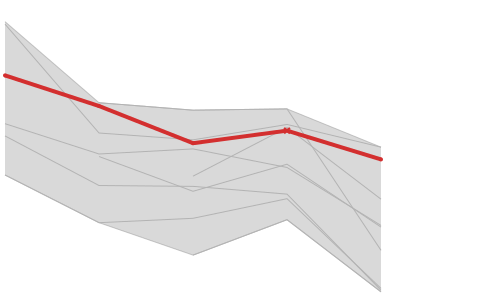
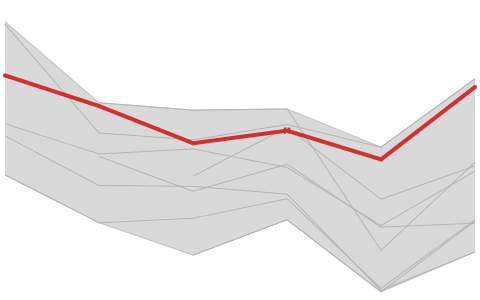
Update race statistics

Changed region(s): [[0.7812, 0.27, 1.0, 0.99]]

diff --git a/docs/charts/men-sophomore.html b/docs/charts/men-sophomore.html
@@ -10,7 +10,7 @@
 <body>
 <div id="wrap"><canvas id="c" style="width:100%"></canvas></div>
 <script>
-const CHART = {"title": "Men Sophomore", "regattas": ["Kai ʻEhitu", "Keauhou", "Kai ʻŌpua", "Kailana", "Keaukaha", "Puna"], "dates": ["05-16", "05-23", "06-06", "06-13", "06-20", "06-27"], "fastest": [244.46, null, 229.48, 231.71, 218.39, null], "slowest": [298.83, null, 258.33, 262.85, 249.23, null], "teams": [{"name": "Kawaihae", "line": "#D32F2F", "point": "#FFFFFF", "emphasize": true, "times": [265.88, null, 252.29, 252.21, null, null]}, {"name": "Hoemana", "line": "#8D5524", "point": "#000000", "times": [253.91, null, 245.16, 251.85, 236.9, null]}, {"name": "Kai Opua", "line": "#1565C0", "point": "#FFFFFF", "times": [250.42, null, null, 242.26, 227.05, null]}, {"name": "Kai ʻEhitu", "line": "#D32F2F", "point": "#FFFFFF", "dash": true, "times": [244.46, null, 229.48, 231.71, 225.6, null]}, {"name": "Kamehameha - Hilo", "line": "#CBB994", "point": "#D32F2F", "times": [298.83, null, 258.33, 262.85, 249.23, null]}, {"name": "Keauhou", "line": "#2E7D32", "point": "#FFFFFF", "times": [null, null, null, null, 218.39, null]}, {"name": "Keaukaha", "line": "#4FC3F7", "point": "#D4AF37", "times": [249.49, null, 230.78, 246.11, 226.29, null]}, {"name": "Keōua Hōnaunau", "line": "#FFF176", "point": "#D32F2F", "times": [247.42, null, 240.0, 243.98, 234.16, null]}, {"name": "Puna", "line": "#FBC02D", "point": "#2E7D32", "times": [null, null, 236.1, 235.94, 230.17, null]}], "dqs": [null, null, null, null, null, null]};
+const CHART = {"title": "Men Sophomore", "regattas": ["Kai ʻEhitu", "Keauhou", "Kai ʻŌpua", "Kailana", "Keaukaha", "Puna"], "dates": ["05-16", "05-23", "06-06", "06-13", "06-20", "06-27"], "fastest": [244.46, null, 229.48, 231.71, 218.39, 226.6], "slowest": [298.83, null, 258.33, 262.85, 249.23, 272.8], "teams": [{"name": "Kawaihae", "line": "#D32F2F", "point": "#FFFFFF", "emphasize": true, "times": [265.88, null, 252.29, 252.21, null, 232.55]}, {"name": "Hoemana", "line": "#8D5524", "point": "#000000", "times": [253.91, null, 245.16, 251.85, 236.9, 251.75]}, {"name": "Kai Opua", "line": "#1565C0", "point": "#FFFFFF", "times": [250.42, null, null, 242.26, 227.05, 241.14]}, {"name": "Kai ʻEhitu", "line": "#D32F2F", "point": "#FFFFFF", "dash": true, "times": [244.46, null, 229.48, 231.71, 225.6, 232.16]}, {"name": "Kamehameha - Hilo", "line": "#CBB994", "point": "#D32F2F", "times": [298.83, null, 258.33, 262.85, 249.23, 272.8]}, {"name": "Keauhou", "line": "#2E7D32", "point": "#FFFFFF", "times": [null, null, null, null, 218.39, 226.6]}, {"name": "Keaukaha", "line": "#4FC3F7", "point": "#D4AF37", "times": [249.49, null, 230.78, 246.11, 226.29, 230.55]}, {"name": "Keōua Hōnaunau", "line": "#FFF176", "point": "#D32F2F", "times": [247.42, null, 240.0, 243.98, 234.16, 239.88]}, {"name": "Puna", "line": "#FBC02D", "point": "#2E7D32", "times": [null, null, 236.1, 235.94, 230.17, 244.54]}], "dqs": [null, null, null, null, null, null]};
 const THUMB = new URLSearchParams(location.search).has("thumb");
 function mmss(v){let m=Math.floor(v/60);let s=(v-m*60).toFixed(2).padStart(5,"0");return m+":"+s;}
 window.onload = function () {

diff --git a/docs/charts/summary.html b/docs/charts/summary.html
@@ -11,7 +11,7 @@
 <body>
 <div id="wrap"><canvas id="c" style="width:100%"></canvas></div>
 <script>
-const SUMMARY = {"labels": ["10", "12", "13", "14", "15", "16", "18", "Novice B", "Novice A", "Freshmen", "Sophomore", "Junior", "40", "50", "55", "60", "65", "70", "Open Four", "Open Mixed"], "datasets": [{"label": "Men", "data": [{"x": 0.0, "y": 364.16}, {"x": 1.0, "y": 272.01}, {"x": 2.0, "y": 266.25}, {"x": 3.0, "y": 257.6}, {"x": 4.0, "y": 269.88}, {"x": 5.0, "y": 255.74}, {"x": 6.0, "y": 243.38}, {"x": 7.0, "y": 231.17}, {"x": 8.0, "y": 245.38}, {"x": 9.0, "y": 223.27}, {"x": 10.0, "y": 252.29}, {"x": 11.0, "y": 239.75}, null, {"x": 13.0, "y": 271.53}, {"x": 14.0, "y": 281.94}, {"x": 15.0, "y": 275.11}, {"x": 16.0, "y": 266.24}, null, {"x": 18.0, "y": 259.67}, null], "errorBars": [{"lo": 309.25, "hi": 431.78}, {"lo": 255.19, "hi": 311.72}, {"lo": 227.98, "hi": 283.98}, {"lo": 220.92, "hi": 279.47}, {"lo": 247.67, "hi": 281.22}, {"lo": 242.88, "hi": 277.07}, {"lo": 230.37, "hi": 259.67}, {"lo": 206.05, "hi": 245.2}, {"lo": 240.43, "hi": 258.11}, {"lo": 221.86, "hi": 233.26}, {"lo": 252.21, "hi": 265.88}, {"lo": 231.24, "hi": 248.26}, null, {"lo": 243.04, "hi": 281.67}, {"lo": 263.57, "hi": 290.24}, {"lo": 254.67, "hi": 278.69}, {"lo": 254.87, "hi": 272.4}, null, {"lo": 248.14, "hi": 265.49}, null], "borderColor": "#1565C0", "backgroundColor": "#1565C0"}, {"label": "Women", "data": [{"x": 0.15, "y": 351.29}, {"x": 1.15, "y": 282.08}, {"x": 2.15, "y": 281.48}, {"x": 3.15, "y": 259.75}, {"x": 4.15, "y": 279.84}, {"x": 5.15, "y": 296.26}, {"x": 6.15, "y": 300.32}, {"x": 7.15, "y": 270.02}, {"x": 8.15, "y": 290.5}, {"x": 9.15, "y": 267.16}, {"x": 10.15, "y": 307.0}, null, {"x": 12.15, "y": 270.32}, {"x": 13.15, "y": 308.75}, {"x": 14.15, "y": 291.16}, {"x": 15.15, "y": 333.96}, {"x": 16.15, "y": 320.88}, {"x": 17.15, "y": 309.41}, {"x": 18.15, "y": 342.19}, null], "errorBars": [{"lo": 305.11, "hi": 434.93}, {"lo": 246.33, "hi": 295.39}, {"lo": 267.1, "hi": 296.29}, {"lo": 241.96, "hi": 285.18}, {"lo": 257.09, "hi": 287.73}, {"lo": 266.3, "hi": 309.24}, {"lo": 282.67, "hi": 322.34}, {"lo": 261.26, "hi": 323.76}, {"lo": 277.24, "hi": 304.34}, {"lo": 260.18, "hi": 271.82}, {"lo": 297.4, "hi": 320.58}, null, {"lo": 257.31, "hi": 278.85}, {"lo": 277.18, "hi": 316.13}, {"lo": 261.57, "hi": 303.04}, {"lo": 301.19, "hi": 342.06}, {"lo": 292.11, "hi": 322.48}, {"lo": 294.0, "hi": 330.32}, {"lo": 299.54, "hi": 355.5}, null], "borderColor": "#AD1457", "backgroundColor": "#AD1457"}, {"label": "Mixed", "data": [null, {"x": 1.3, "y": 270.09}, null, null, null, null, {"x": 6.3, "y": 263.76}, {"x": 7.3, "y": 260.65}, null, null, null, null, {"x": 12.3, "y": 274.61}, null, {"x": 14.3, "y": 275.05}, null, null, null, null, {"x": 19.0, "y": 279.24}], "errorBars": [null, {"lo": 244.02, "hi": 312.75}, null, null, null, null, {"lo": 251.4, "hi": 271.47}, {"lo": 232.74, "hi": 289.42}, null, null, null, null, {"lo": 269.05, "hi": 296.93}, null, {"lo": 252.95, "hi": 304.74}, null, null, null, null, {"lo": 253.69, "hi": 295.41}], "borderColor": "#2E7D32", "backgroundColor": "#2E7D32"}], "yMin": 194.6, "yMax": 446.4};
+const SUMMARY = {"labels": ["10", "12", "13", "14", "15", "16", "18", "Novice B", "Novice A", "Freshmen", "Sophomore", "Junior", "40", "50", "55", "60", "65", "70", "Open Four", "Open Mixed"], "datasets": [{"label": "Men", "data": [{"x": 0.0, "y": 364.16}, {"x": 1.0, "y": 272.01}, {"x": 2.0, "y": 266.25}, {"x": 3.0, "y": 257.6}, {"x": 4.0, "y": 269.88}, {"x": 5.0, "y": 255.74}, {"x": 6.0, "y": 243.38}, {"x": 7.0, "y": 231.17}, {"x": 8.0, "y": 245.38}, {"x": 9.0, "y": 223.27}, {"x": 10.0, "y": 252.25}, {"x": 11.0, "y": 239.75}, null, {"x": 13.0, "y": 271.53}, {"x": 14.0, "y": 281.94}, {"x": 15.0, "y": 275.11}, {"x": 16.0, "y": 266.24}, null, {"x": 18.0, "y": 259.67}, null], "errorBars": [{"lo": 309.25, "hi": 431.78}, {"lo": 255.19, "hi": 311.72}, {"lo": 227.98, "hi": 283.98}, {"lo": 220.92, "hi": 279.47}, {"lo": 247.67, "hi": 281.22}, {"lo": 242.88, "hi": 277.07}, {"lo": 230.37, "hi": 259.67}, {"lo": 206.05, "hi": 245.2}, {"lo": 240.43, "hi": 258.11}, {"lo": 221.86, "hi": 233.26}, {"lo": 232.55, "hi": 265.88}, {"lo": 231.24, "hi": 248.26}, null, {"lo": 243.04, "hi": 281.67}, {"lo": 263.57, "hi": 290.24}, {"lo": 254.67, "hi": 278.69}, {"lo": 254.87, "hi": 272.4}, null, {"lo": 248.14, "hi": 265.49}, null], "borderColor": "#1565C0", "backgroundColor": "#1565C0"}, {"label": "Women", "data": [{"x": 0.15, "y": 351.29}, {"x": 1.15, "y": 282.08}, {"x": 2.15, "y": 281.48}, {"x": 3.15, "y": 259.75}, {"x": 4.15, "y": 279.84}, {"x": 5.15, "y": 296.26}, {"x": 6.15, "y": 300.32}, {"x": 7.15, "y": 270.02}, {"x": 8.15, "y": 290.5}, {"x": 9.15, "y": 267.16}, {"x": 10.15, "y": 312.13}, null, {"x": 12.15, "y": 270.32}, {"x": 13.15, "y": 308.75}, {"x": 14.15, "y": 291.16}, {"x": 15.15, "y": 333.96}, {"x": 16.15, "y": 320.88}, {"x": 17.15, "y": 309.41}, {"x": 18.15, "y": 342.19}, null], "errorBars": [{"lo": 305.11, "hi": 434.93}, {"lo": 246.33, "hi": 295.39}, {"lo": 267.1, "hi": 296.29}, {"lo": 241.96, "hi": 285.18}, {"lo": 257.09, "hi": 287.73}, {"lo": 266.3, "hi": 309.24}, {"lo": 282.67, "hi": 322.34}, {"lo": 261.26, "hi": 323.76}, {"lo": 277.24, "hi": 304.34}, {"lo": 260.18, "hi": 271.82}, {"lo": 297.4, "hi": 320.58}, null, {"lo": 257.31, "hi": 278.85}, {"lo": 277.18, "hi": 316.13}, {"lo": 261.57, "hi": 303.04}, {"lo": 301.19, "hi": 342.06}, {"lo": 292.11, "hi": 322.48}, {"lo": 294.0, "hi": 330.32}, {"lo": 299.54, "hi": 355.5}, null], "borderColor": "#AD1457", "backgroundColor": "#AD1457"}, {"label": "Mixed", "data": [null, {"x": 1.3, "y": 270.09}, null, null, null, null, {"x": 6.3, "y": 263.76}, {"x": 7.3, "y": 260.65}, null, null, null, null, {"x": 12.3, "y": 274.61}, null, {"x": 14.3, "y": 275.05}, null, null, null, null, {"x": 19.0, "y": 279.24}], "errorBars": [null, {"lo": 244.02, "hi": 312.75}, null, null, null, null, {"lo": 251.4, "hi": 271.47}, {"lo": 232.74, "hi": 289.42}, null, null, null, null, {"lo": 269.05, "hi": 296.93}, null, {"lo": 252.95, "hi": 304.74}, null, null, null, null, {"lo": 253.69, "hi": 295.41}], "borderColor": "#2E7D32", "backgroundColor": "#2E7D32"}], "yMin": 194.6, "yMax": 446.4};
 const THUMB = new URLSearchParams(location.search).has("thumb");
 function mmss(v){let m=Math.floor(v/60);let s=(v-m*60).toFixed(2).padStart(5,"0");return m+":"+s;}
 

diff --git a/docs/charts/women-sophomore.html b/docs/charts/women-sophomore.html
@@ -10,7 +10,7 @@
 <body>
 <div id="wrap"><canvas id="c" style="width:100%"></canvas></div>
 <script>
-const CHART = {"title": "Women Sophomore", "regattas": ["Kai ʻEhitu", "Keauhou", "Kai ʻŌpua", "Kailana", "Keaukaha", "Puna"], "dates": ["05-16", "05-23", "06-06", "06-13", "06-20", "06-27"], "fastest": [293.1, 279.95, 271.0, 280.77, 260.86, null], "slowest": [335.41, 313.04, 310.99, 311.34, 300.78, null], "teams": [{"name": "Kawaihae", "line": "#D32F2F", "point": "#FFFFFF", "emphasize": true, "times": [320.58, 312.13, 301.88, null, 297.4, null]}, {"name": "Hoemana", "line": "#8D5524", "point": "#000000", "times": [334.72, 304.69, 302.81, 307.05, 300.78, null]}, {"name": "Hui Waʻa ʻO Waiākea", "line": "#1565C0", "point": "#FBC02D", "times": [null, 313.04, 310.99, 311.34, 272.32, null]}, {"name": "Kai ʻEhitu", "line": "#D32F2F", "point": "#FFFFFF", "dash": true, "times": [303.88, 290.2, 289.97, 287.83, 261.29, null]}, {"name": "Kamehameha - Hilo", "line": "#CBB994", "point": "#D32F2F", "times": [307.26, 298.9, 300.3, 295.18, 279.18, null]}, {"name": "Keaukaha", "line": "#4FC3F7", "point": "#D4AF37", "times": [335.41, null, 292.78, 306.21, 286.43, null]}, {"name": "Keōua Hōnaunau", "line": "#FFF176", "point": "#D32F2F", "times": [null, 298.2, 288.61, 296.08, 278.73, null]}, {"name": "Puna", "line": "#FBC02D", "point": "#2E7D32", "times": [293.1, 279.95, 281.16, 286.57, 261.82, null]}, {"name": "Waikoloa", "line": "#7B1FA2", "point": "#FFFFFF", "times": [null, null, 271.0, 280.77, 260.86, null]}], "dqs": [null, null, null, [305.34, "DQ (FLG)"], null, null]};
+const CHART = {"title": "Women Sophomore", "regattas": ["Kai ʻEhitu", "Keauhou", "Kai ʻŌpua", "Kailana", "Keaukaha", "Puna"], "dates": ["05-16", "05-23", "06-06", "06-13", "06-20", "06-27"], "fastest": [293.1, 279.95, 271.0, 280.77, 260.86, 271.89], "slowest": [335.41, 313.04, 310.99, 311.34, 300.78, 319.67], "teams": [{"name": "Kawaihae", "line": "#D32F2F", "point": "#FFFFFF", "emphasize": true, "times": [320.58, 312.13, 301.88, null, 297.4, 317.38]}, {"name": "Hoemana", "line": "#8D5524", "point": "#000000", "times": [334.72, 304.69, 302.81, 307.05, 300.78, 319.67]}, {"name": "Hui Waʻa ʻO Waiākea", "line": "#1565C0", "point": "#FBC02D", "times": [null, 313.04, 310.99, 311.34, 272.32, 296.6]}, {"name": "Kai ʻEhitu", "line": "#D32F2F", "point": "#FFFFFF", "dash": true, "times": [303.88, 290.2, 289.97, 287.83, 261.29, 271.89]}, {"name": "Kamehameha - Hilo", "line": "#CBB994", "point": "#D32F2F", "times": [307.26, 298.9, 300.3, 295.18, 279.18, 294.17]}, {"name": "Keaukaha", "line": "#4FC3F7", "point": "#D4AF37", "times": [335.41, null, 292.78, 306.21, 286.43, 295.62]}, {"name": "Keōua Hōnaunau", "line": "#FFF176", "point": "#D32F2F", "times": [null, 298.2, 288.61, 296.08, 278.73, 279.81]}, {"name": "Puna", "line": "#FBC02D", "point": "#2E7D32", "times": [293.1, 279.95, 281.16, 286.57, 261.82, 280.75]}, {"name": "Waikoloa", "line": "#7B1FA2", "point": "#FFFFFF", "times": [null, null, 271.0, 280.77, 260.86, 280.42]}], "dqs": [null, null, null, [305.34, "DQ (FLG)"], null, null]};
 const THUMB = new URLSearchParams(location.search).has("thumb");
 function mmss(v){let m=Math.floor(v/60);let s=(v-m*60).toFixed(2).padStart(5,"0");return m+":"+s;}
 window.onload = function () {